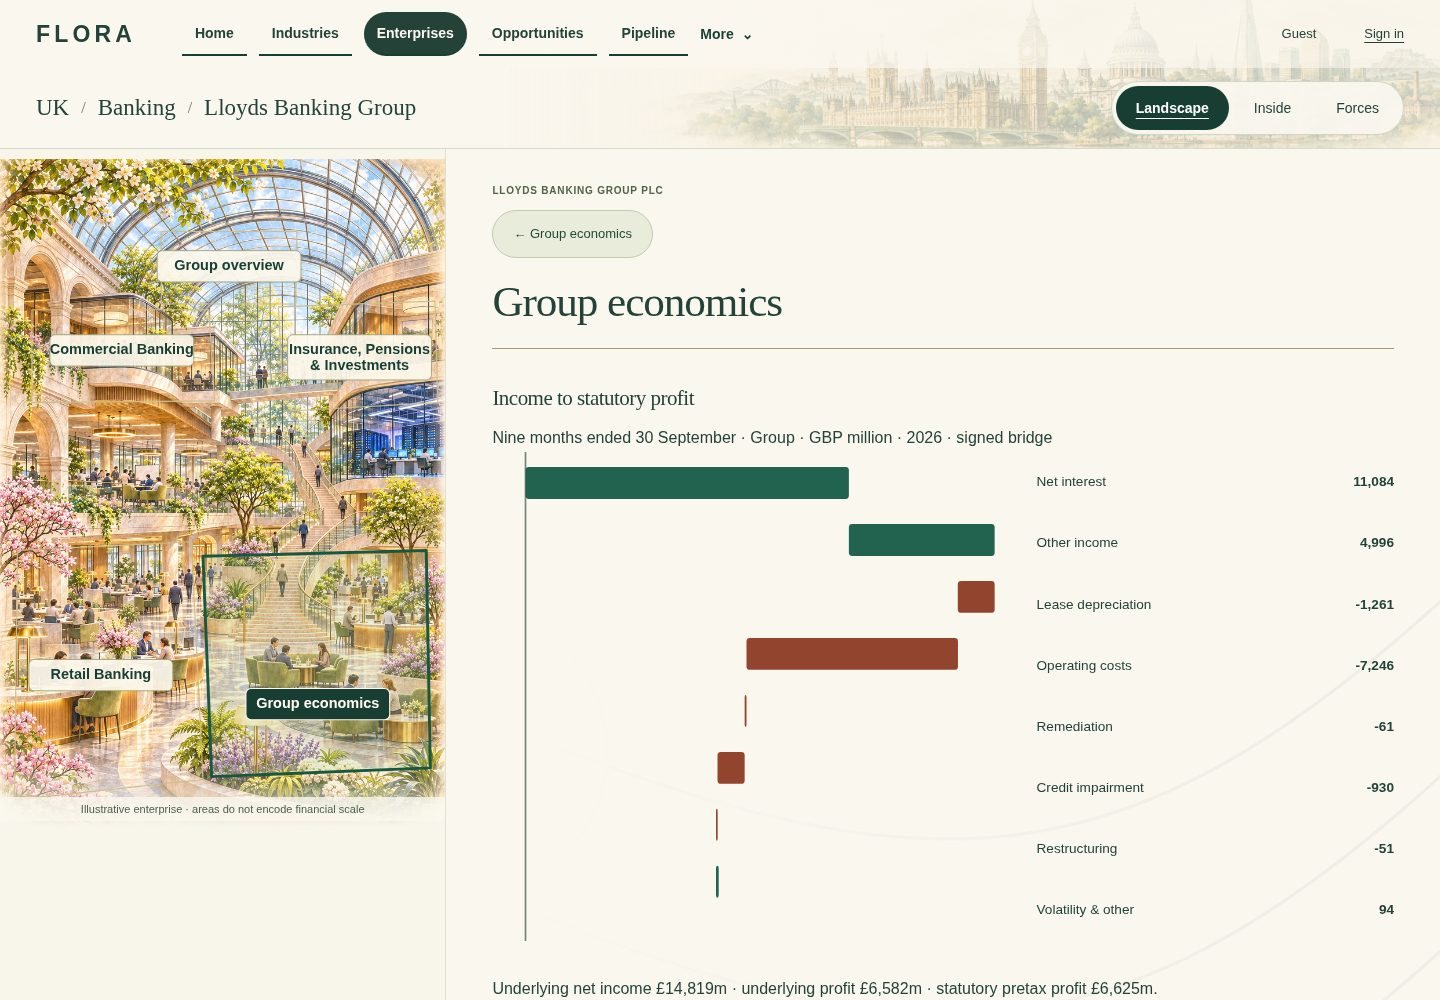
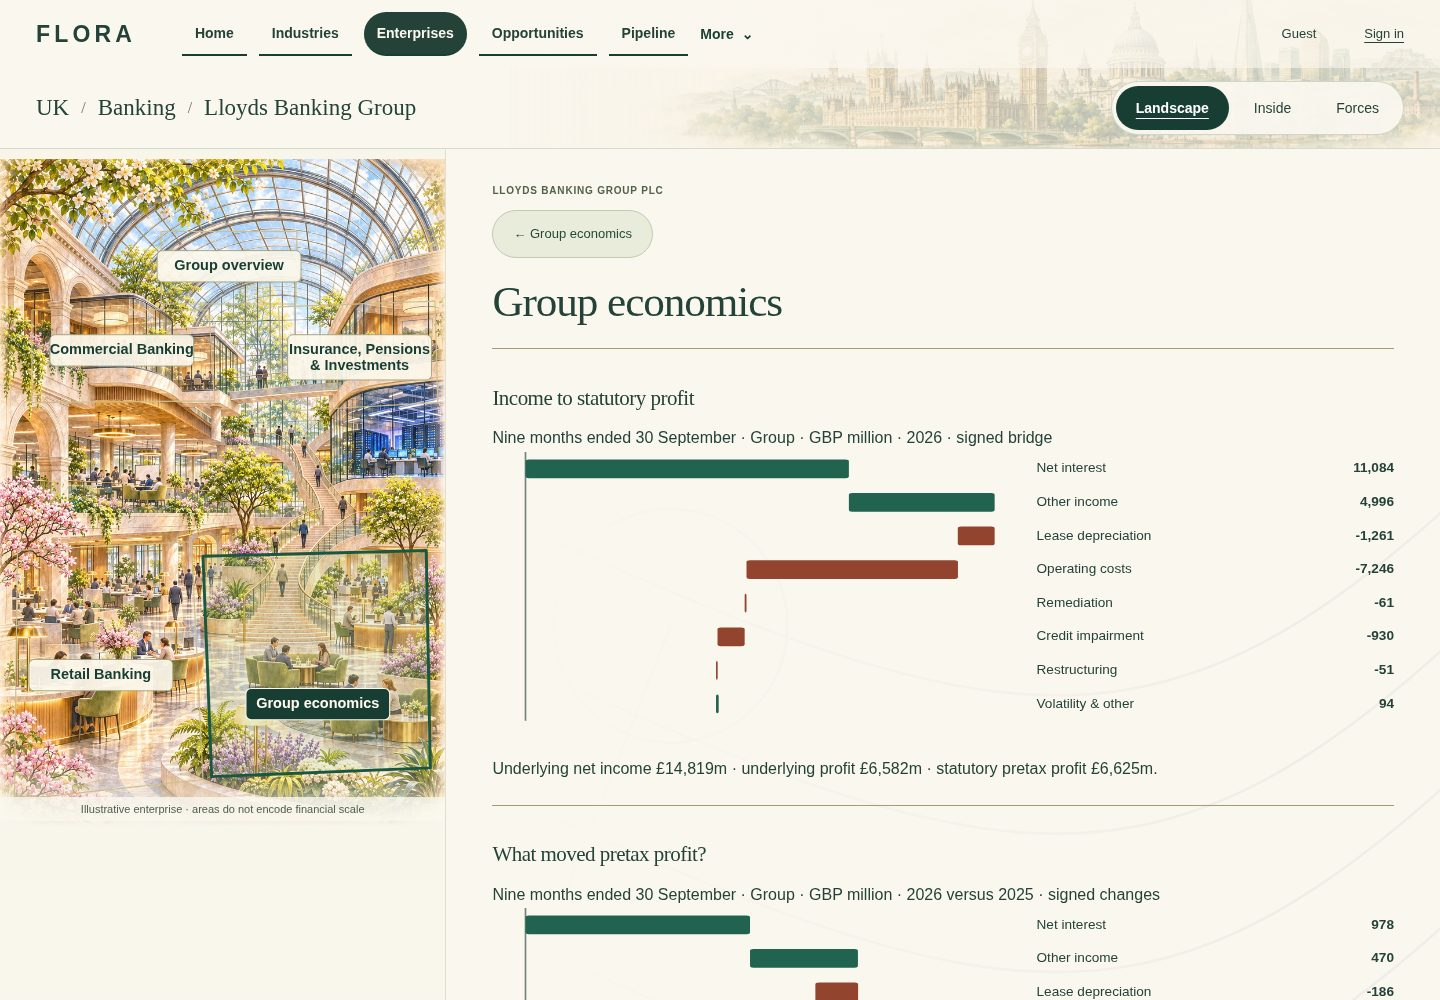
Verify chart geometry and keep subject-specific regression fixtures

diff --git a/cios/applications/flora/visual_stream_assets/lloyds-gold.css b/cios/applications/flora/visual_stream_assets/lloyds-gold.css
@@ -165,7 +165,12 @@
   grid-template-columns: minmax(0, 3fr) minmax(7rem, 2fr);
   gap: 0.5rem;
 }
-.gold-page .finance-bars svg {
+.gold-page .finance-plot {
+  position: relative;
+}
+.gold-page .finance-plot svg {
+  position: absolute;
+  inset: 0;
   width: 100%;
   height: 100%;
 }

diff --git a/tests/test_flora_eei3.py b/tests/test_flora_eei3.py
@@ -30,7 +30,9 @@ def write(path, obj):
 
 def test_real_new_issuer_and_successive_report_without_python_change(tmp_path, monkeypatch):
     path = package(tmp_path, monkeypatch) / 'catalogue.json'
-    nationwide, latest, prior = json.loads(path.read_text())['reports']
+    records = json.loads(path.read_text())['reports']
+    nationwide, = (entry for entry in records if tuple(entry['subject']) == NW)
+    latest, prior = (entry for entry in records if tuple(entry['subject']) == EQ)
     write(path, {'reports': [nationwide]})
     assert len(p.statement_series(NW)) == 44
     assert not economics.presented_statement_series('technology:equinix')
@@ -62,14 +64,15 @@ def test_withdrawal_exception_and_origin_mismatch_isolate_affected_report(tmp_pa
         assert len(p.statement_series(NW)) == 44
     write(path, report)
     catalogue = json.loads((target / 'catalogue.json').read_text())
-    catalogue['reports'][1]['accession'] = '000110123926000099'
+    report = next(entry for entry in catalogue['reports'] if entry['id'] == 'EEI3-EQUINIX-10K-2025')
+    report['accession'] = '000110123926000099'
     assert max(line.fiscal_year for line in p.statement_series(EQ, catalogue=catalogue)) == 2024
 
 
 def test_correction_retains_predecessor_while_suppressing_withdrawn_revision(tmp_path, monkeypatch):
     target = package(tmp_path, monkeypatch)
     catalogue = json.loads((target / 'catalogue.json').read_text())
-    latest, prior = [target / entry['file'] for entry in catalogue['reports'][1:]]
+    latest, prior = (target / entry['file'] for entry in catalogue['reports'] if tuple(entry['subject']) == EQ)
     old = json.loads(prior.read_text())
     new = json.loads(latest.read_text())
     original = next(b for b in old['fact_bindings'] if b['key'] == 'eqix-2024-revenue-2024')
@@ -103,6 +106,6 @@ def test_existing_equinix_route_uses_public_only(monkeypatch):
     assert all(label in facts for label in ('Financial statements', 'Cash flow statement', '40,141', 'Segment reporting'))
     assert '+5.36' in insight and 'investing used cash' in insight
     assert 'Source &amp; basis' in facts
-    assert all(row.source.url == 'https://www.sec.gov/' for row in p.statement_series(
-        ('research-subject:lloyds-banking-group-plc', 'Lloyds Banking Group plc')))
+    lloyds = p.statement_series(('research-subject:lloyds-banking-group-plc', 'Lloyds Banking Group plc'))
+    assert lloyds and all(row.source.url == 'https://www.sec.gov/' for row in lloyds)
     assert f.public_factual_projection() == {}

diff --git a/tests/test_flora_lloyds_experience_completion.py b/tests/test_flora_lloyds_experience_completion.py
@@ -52,7 +52,8 @@ def test_business_selection_has_differentiated_economics_and_actual_context(focu
 
 
 @pytest.mark.parametrize('detail',('funding','income','costs','capital'))
-def test_financial_detail_keeps_actuals_periods_and_unmeasured_mechanisms_separate(detail):
+def test_financial_detail_keeps_actuals_periods_and_unmeasured_mechanisms_separate(detail, monkeypatch):
+    monkeypatch.setattr(g.lloyds_financials.public_statements, 'statement_series', lambda subject: ())
     body=view(focus='economics',detail=detail)
     assert 'ce-capital' in body and '£6.6bn' in body and 'Nine months to 30 September 2026' in body
     assert 'No area, line width or connector measures an allocation' in body
@@ -125,7 +126,8 @@ def test_only_presentation_changes_and_no_research_or_protected_owner_evolution(
       'cios/applications/flora/visual_streams.py','cios/applications/flora/research_intelligence/source_import.py',
       'cios/applications/flora/financial_intelligence','cios/applications/flora/blueprint_import',
       'tools/ci/flora-baseline-v1.json','tools/ci/flora_ci.py')
-    assert not subprocess.check_output(['git','diff','--name-only',BASE,'--',*paths],cwd=ROOT,text=True)
+    from tests.test_flora_lloyds_financials import assert_only_public_financial_changes
+    assert_only_public_financial_changes(ROOT, BASE, paths)
     before=ast.parse(subprocess.check_output(['git','show',BASE+':cios/applications/flora/lloyds_gold.py'],cwd=ROOT));after=ast.parse((ROOT/'cios/applications/flora/lloyds_gold.py').read_text())
     functions=lambda tree:{n.name:ast.dump(n,include_attributes=False) for n in tree.body if isinstance(n,ast.FunctionDef)}
     old,new=functions(before),functions(after)

diff --git a/cios/applications/flora/financial_intelligence/chart.py b/cios/applications/flora/financial_intelligence/chart.py
@@ -25,17 +25,17 @@ def bars(title, basis, rows, *, target=None, waterfall=False, suffix=''):
     def position(value):
         return 20 + float((value - low) / span) * 280
 
-    height = 20 + 34 * len(rows)
+    height = 34 * len(rows)
     graphics = [f'<line x1="{position(0):.1f}" x2="{position(0):.1f}" y1="0" y2="{height}" stroke="#748477"/>']
     for index, ((_, value), (start, end)) in enumerate(zip(rows, intervals)):
-        y = 9 + 34 * index
+        y = 7.5 + 34 * index
         left = position(min(start, end))
         width = abs(position(end) - position(start))
         colour = '#93442f' if value < 0 else '#226350'
         graphics.append(f'<rect x="{left:.1f}" y="{y}" width="{max(1, width):.1f}" height="19" rx="2" fill="{colour}"/>')
     label = escape(title)
-    plot = (f'<svg viewBox="0 0 320 {height}" aria-hidden="true" focusable="false">'
-            + ''.join(graphics) + '</svg>')
+    plot = (f'<div class="finance-plot"><svg viewBox="0 0 320 {height}" preserveAspectRatio="none" aria-hidden="true" focusable="false">'
+            + ''.join(graphics) + '</svg></div>')
     labels = ''.join('<li><span>' + escape(name) + '</span><strong>' +
                      escape(value_label(value) + suffix) + '</strong></li>' for name, value in rows)
     content = f'<h3>{label}</h3><p>{escape(basis)}</p><div class="finance-bars">{plot}<ol>{labels}</ol></div>'

diff --git a/tests/test_flora_lloyds_financials.py b/tests/test_flora_lloyds_financials.py
@@ -81,3 +81,14 @@ def test_chart_uses_same_typed_contract_for_equinix_without_currency_conversion(
     rows = [(str(line.fiscal_year), line.value.amount) for line in data if line.metric == 'revenue']
     body = chart.bars('Equinix revenue', 'Group reported · USD million', rows)
     assert '9,217' in body and 'USD million' in body and 'GBP' not in body
+
+
+def test_changed_underlying_basis_suppresses_bridge_without_hiding_statutory_figures():
+    dataset = f.current()
+    key = (f.GROUP, 'u_cost', '2026-09-30', '2026-01-01')
+    row, fact = dataset[key]
+    dataset[key] = row.model_copy(update={'accounting_basis': 'Incompatible'}), fact
+    body = f.earnings(dataset, '#evidence')
+    assert 'Income to statutory profit' not in body
+    assert 'What moved pretax profit?' not in body
+    assert 'Statutory income and expenses' in body
